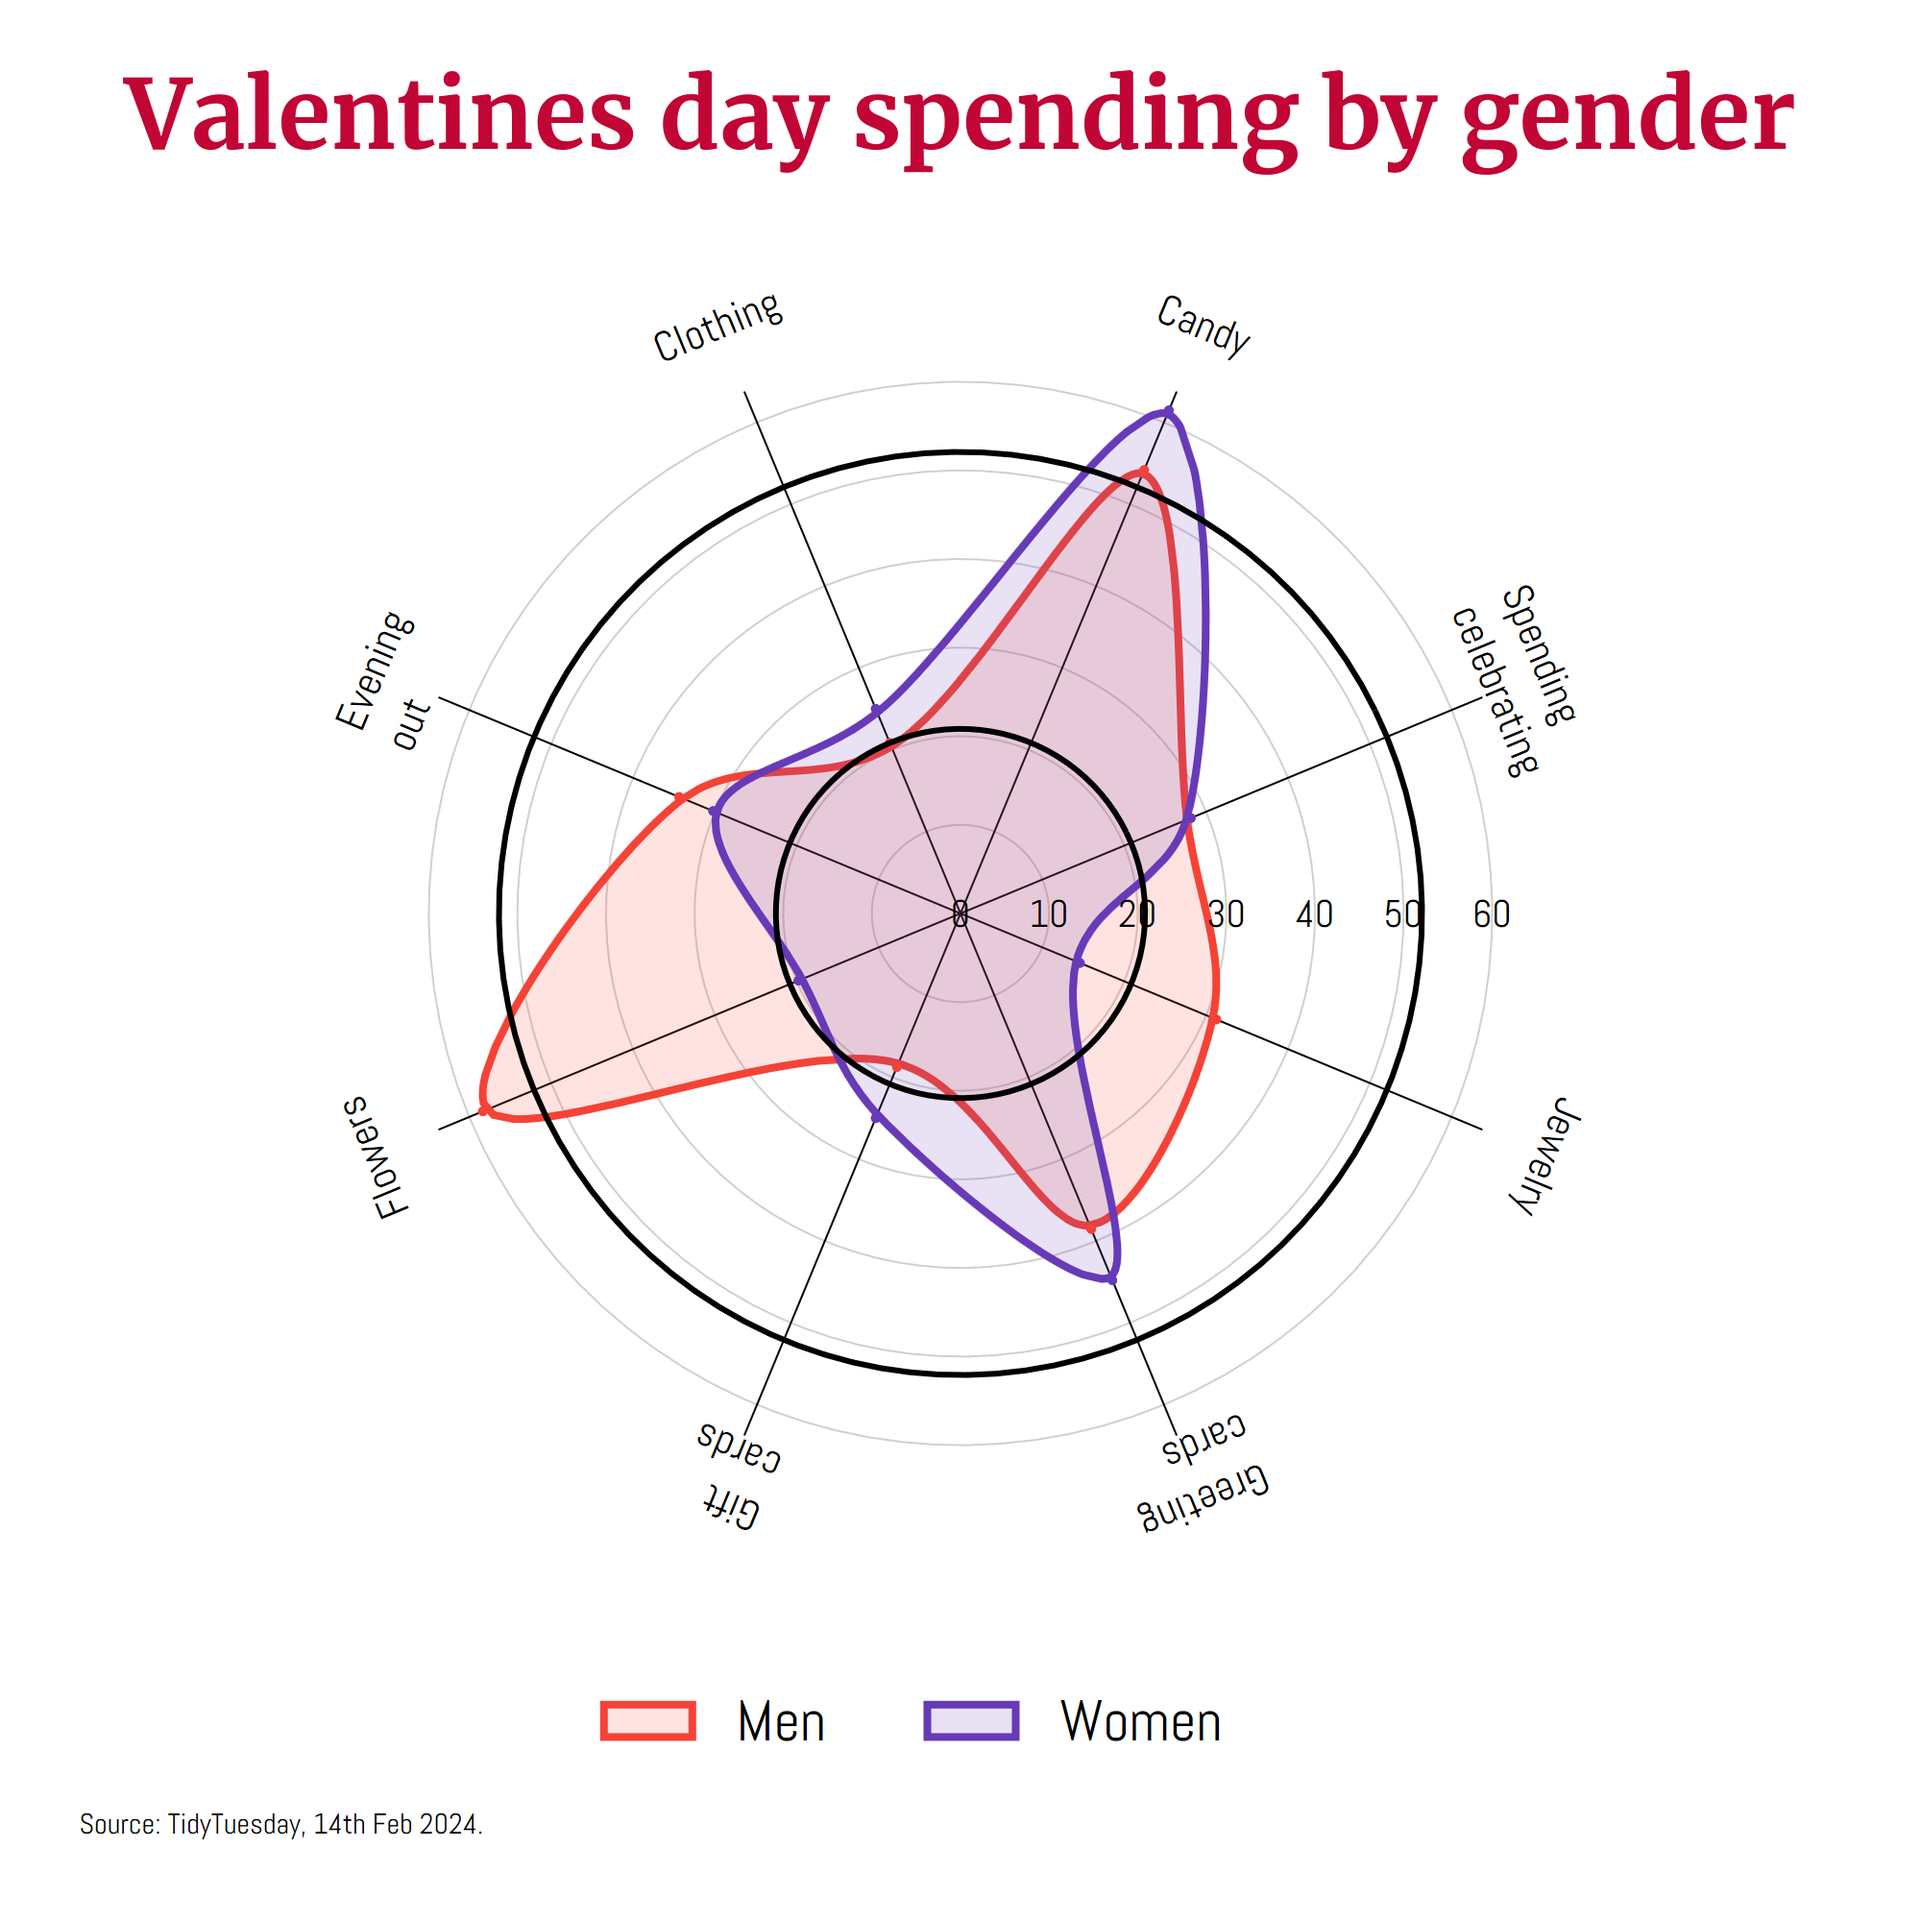
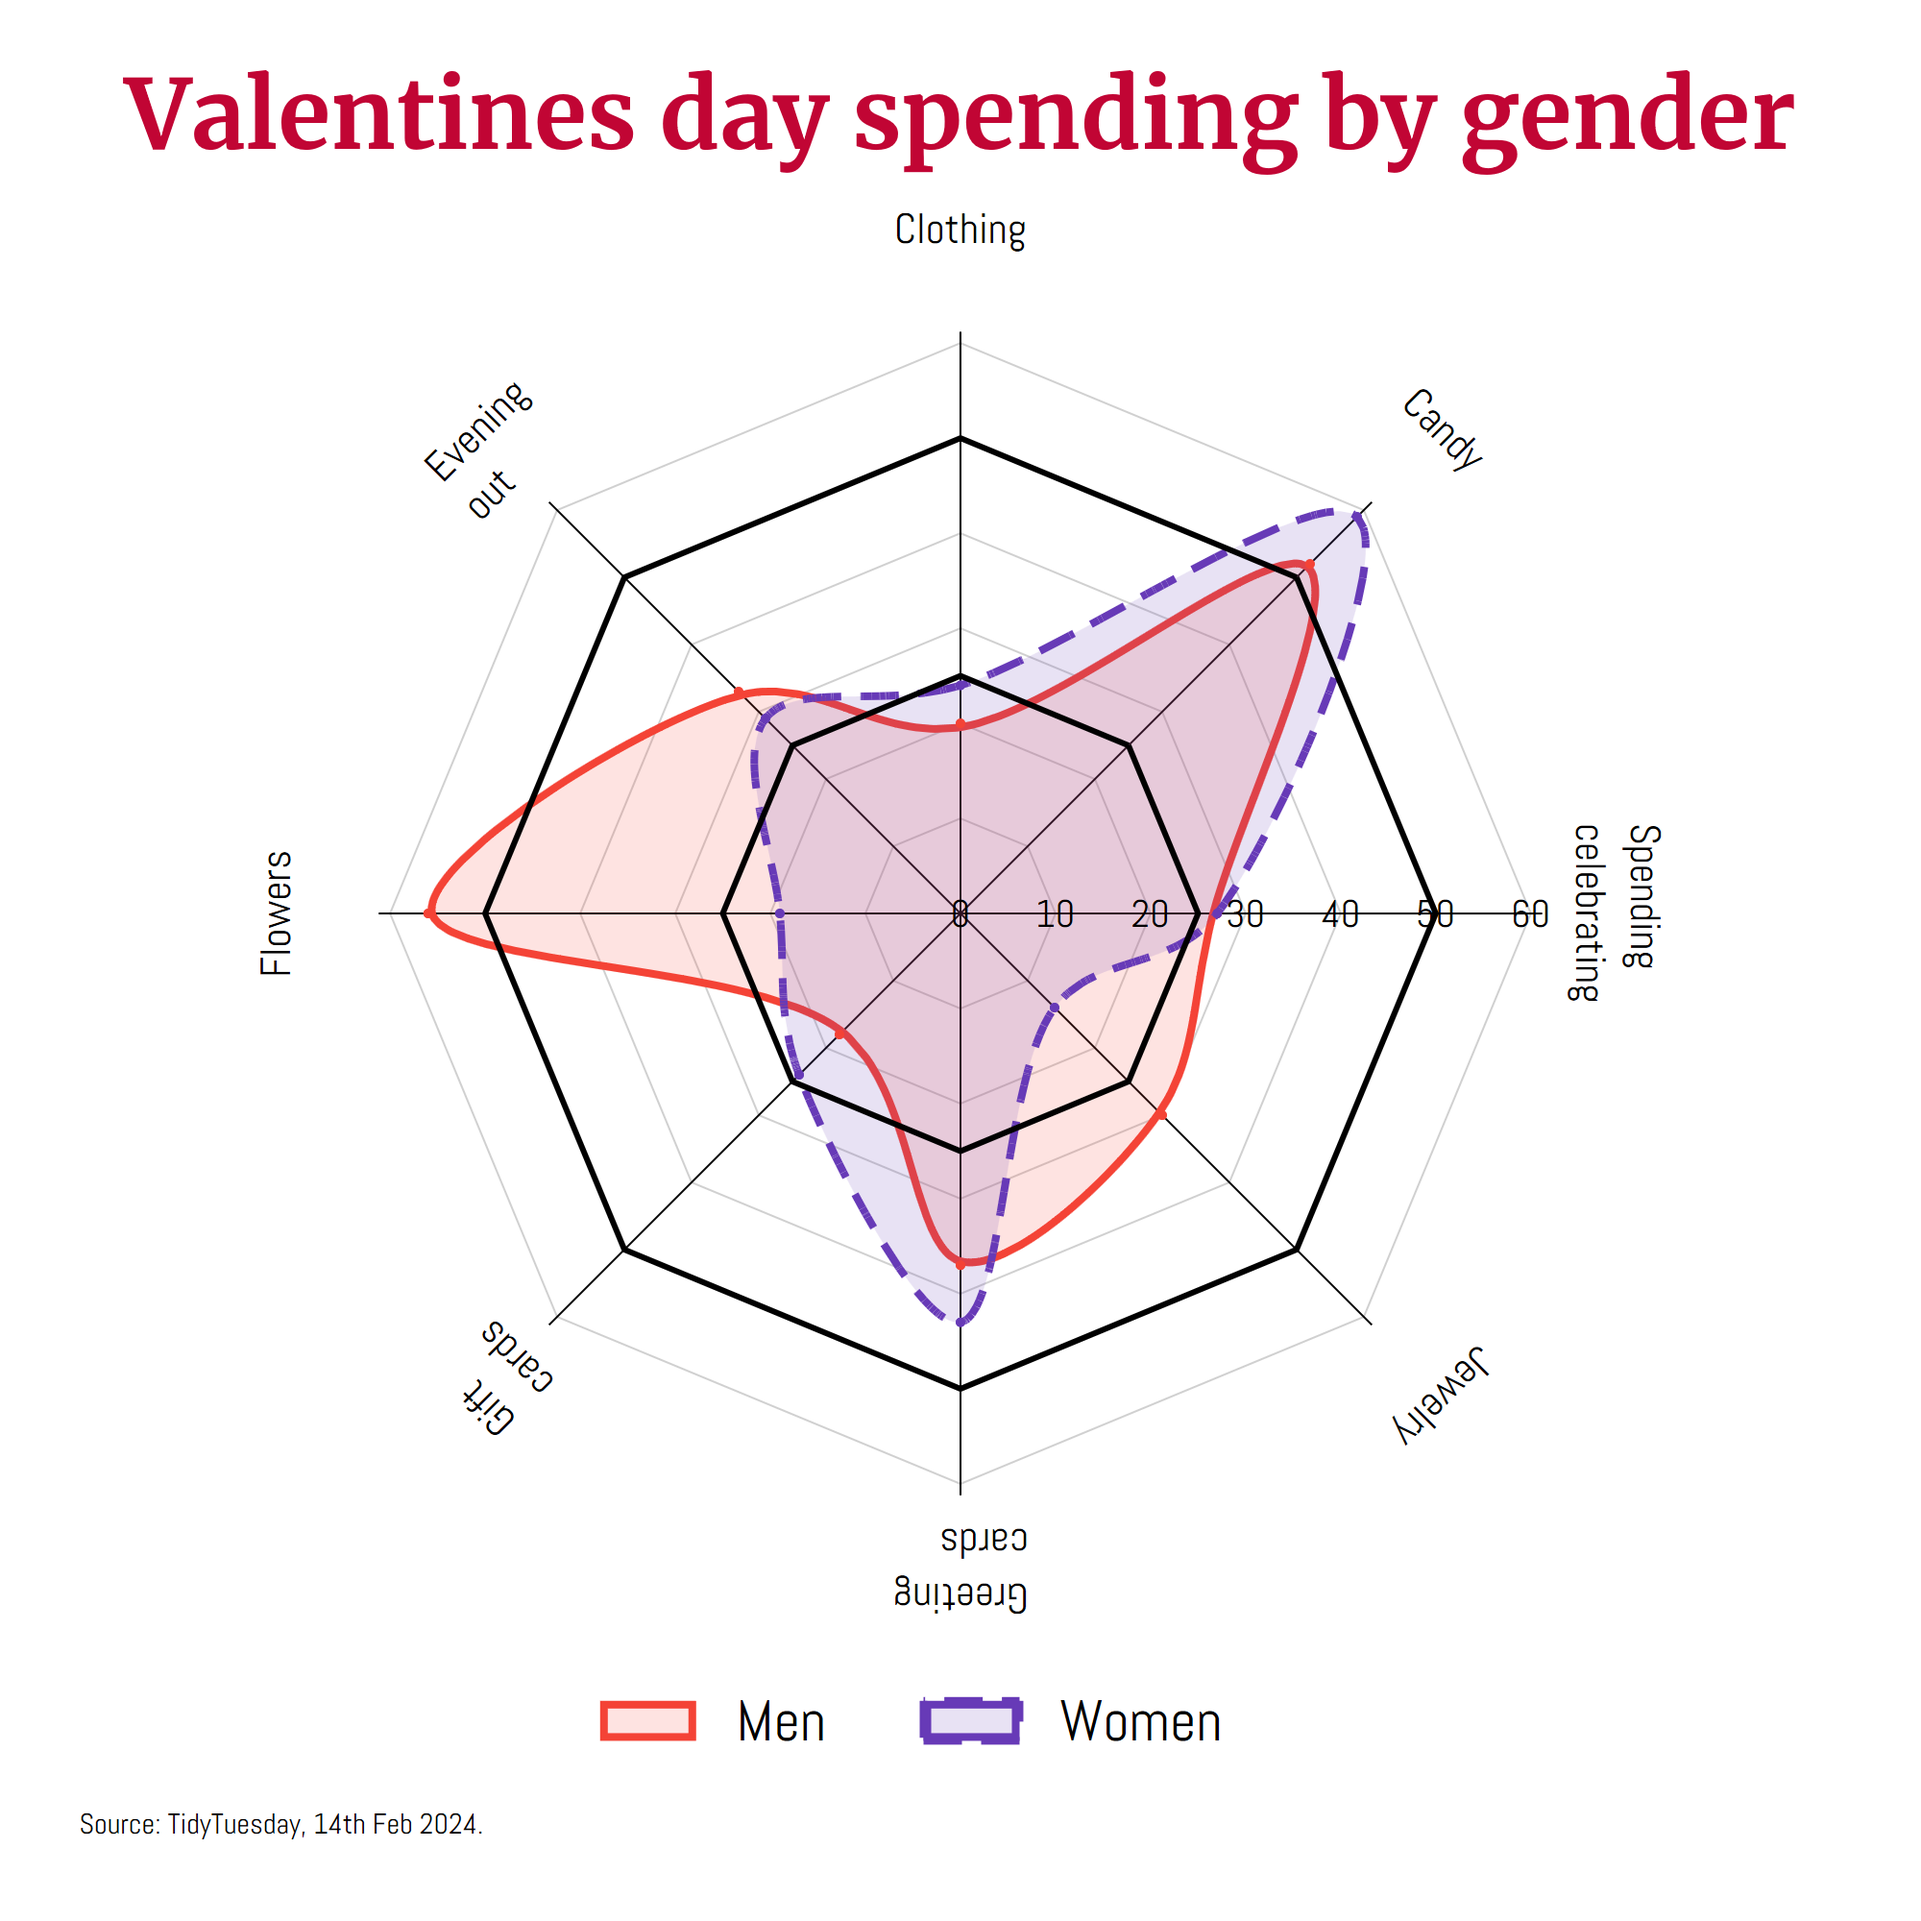
v1.5 figs

diff --git a/README.md b/README.md
@@ -377,12 +377,12 @@ spider spendingcelebrating- giftcards, over(gender) smooth(0.2) alpha(15) lw(0.4
 
 Here is another version which showcases v1.5 updates:
 
-```
-spider spendingcelebrating- giftcards, over(gender) smooth(0.2) alpha(15) lw(0.4) palette(w3 default, select(1 4)) rotatelab  rline(20 50)  ///
+```stata
+spider spendingcelebrating- giftcards, over(gender) smooth(0.2) alpha(15) lw(0.4) palette(w3 default, select(1 4)) rotatelab  rline(25 50)  ///
 	legcol(3) legsize(3) msize(0.15) sc(black) gcolor(gs13)  format(%5.0f) displacelab(20) glabsize(2) wrap(5) ///
+	plotregion(margin(l-20 r-20)) ra(0(10)60) grid lp(solid dash) ///
 	title("{fontface Merriweather Bold:Valentines day spending by gender}", size(5) color(cranberry))  ///
-	note("Source: TidyTuesday, 14th Feb 2024.", size(1.5)) ///
-	plotregion(margin(l-20 r-20)) ra(0(10)60) grid
+	note("Source: TidyTuesday, 14th Feb 2024.", size(1.5)) 
 ```
 <img src="/figures/valentines2024_v2.png" width="100%">
 
